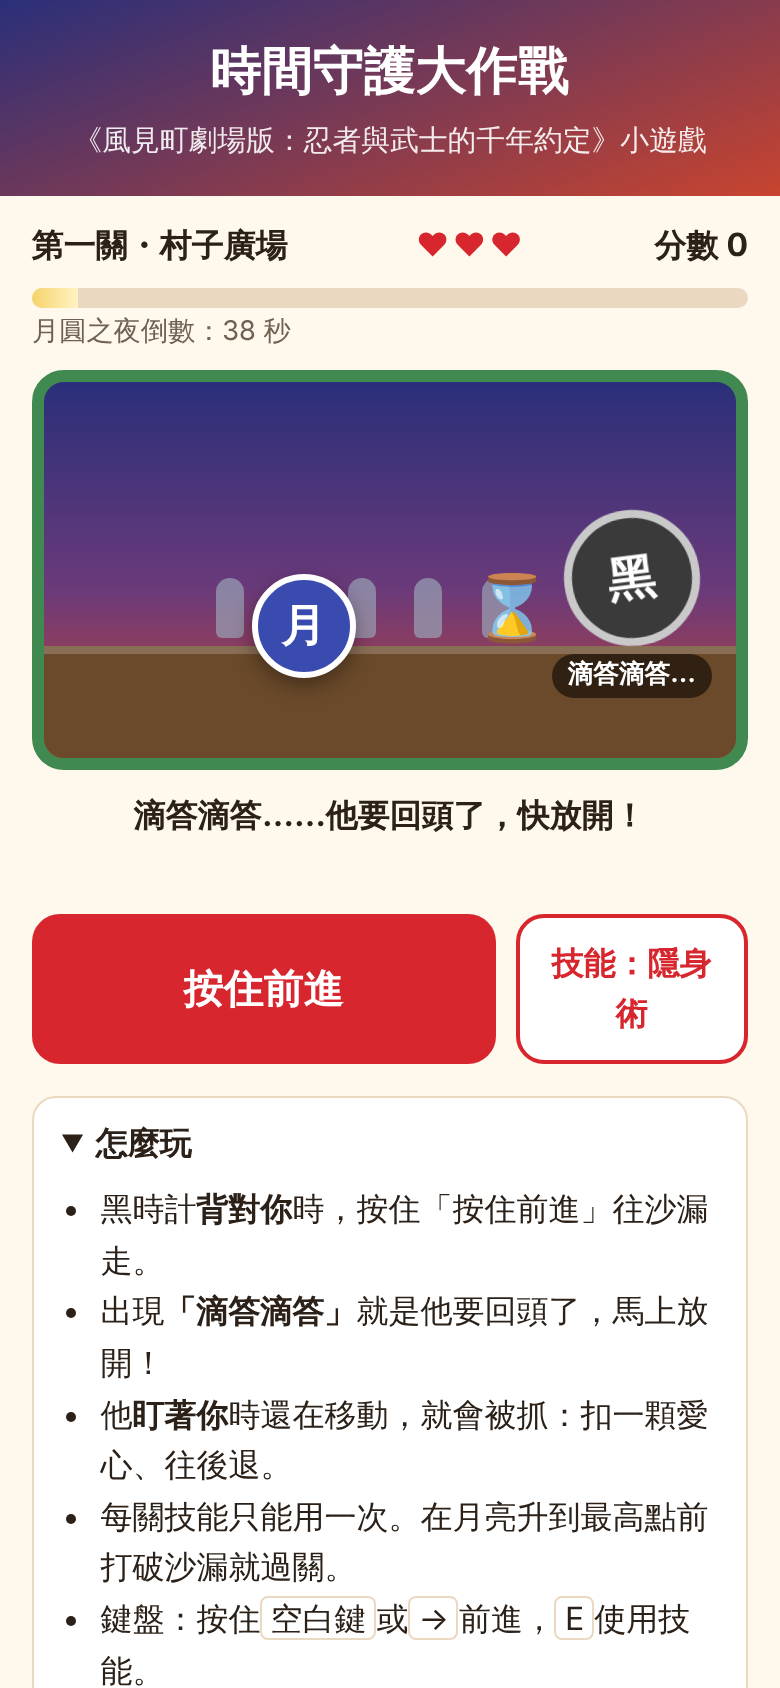
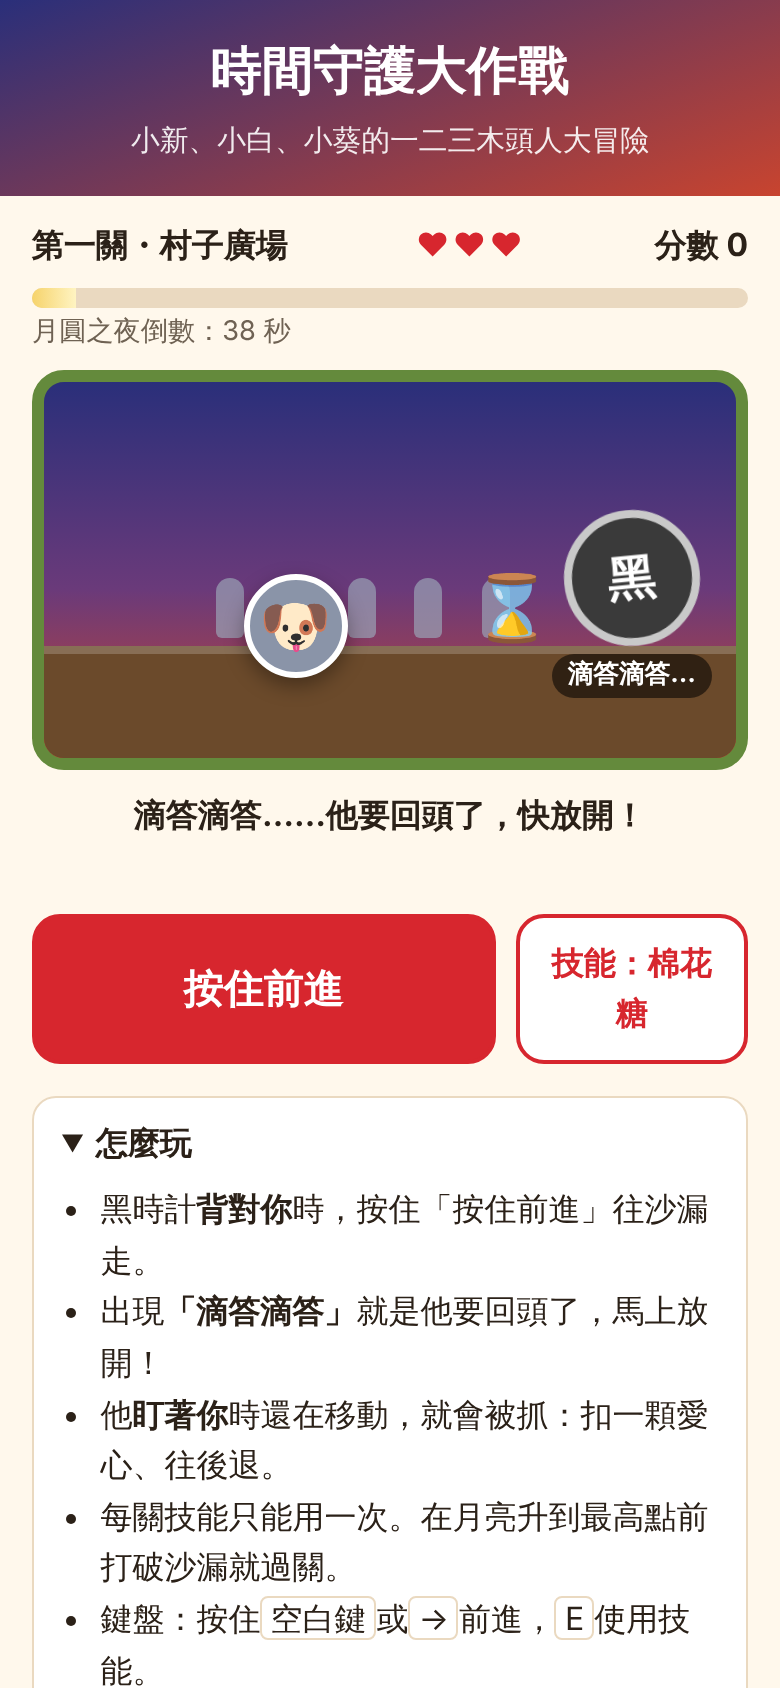
Change mini game heroes to Shin-chan, Shiro, and Himawari
Claude-Session: https://claude.ai/code/session_01V1fCCzd9ap75BGBZdNuM5J

diff --git a/game/game.js b/game/game.js
@@ -1,28 +1,27 @@
-// 時間守護大作戰：以原創劇場版《風見町劇場版》為題材的「一二三木頭人」小遊戲
+// 時間守護大作戰：「一二三木頭人」小遊戲，角色為小新、小白、小葵
 (function () {
   "use strict";
 
-  var movie = window.MY_MOVIE || { characters: [] };
-  function colorOf(name, fallback) {
-    var found = (movie.characters || []).filter(function (c) { return c.name === name; })[0];
-    return found ? found.color : fallback;
-  }
-
+  // 可選角色：圖示用 emoji，不使用任何官方圖片
   var HEROES = [
     {
-      name: "小風", color: colorOf("小風", "#e8473d"), speed: 1.0, lives: 3,
-      skill: "手電筒", effect: "blind",
-      desc: "速度普通。技能「手電筒」：照得黑時計睜不開眼，3 秒內不會回頭。",
+      name: "小新", icon: "👦", color: "#e8473d", speed: 1.0, lives: 3,
+      skill: "屁屁舞", effect: "blind",
+      desc: "速度普通。技能「屁屁舞」：黑時計笑到停不下來，3 秒內不會回頭。",
+      skillMsg: "小新跳起屁屁舞！黑時計笑到停不下來，3 秒內快衝！",
     },
     {
-      name: "月影", color: colorOf("月影", "#3a4bb0"), speed: 1.25, lives: 3,
-      skill: "隱身術", effect: "hide",
-      desc: "跑最快。技能「隱身術」：2.5 秒內被看到也不會被抓（這次忍住不打噴嚏！）。",
+      name: "小白", icon: "🐶", color: "#8a94a8", speed: 1.25, lives: 3,
+      skill: "棉花糖", effect: "hide",
+      desc: "跑最快。技能「棉花糖」：縮成一團棉花糖，2.5 秒內被看到也不會被抓。",
+      skillMsg: "小白縮成棉花糖！2.5 秒內被看到也沒關係！",
     },
     {
-      name: "鐵之介", color: colorOf("鐵之介", "#b0611a"), speed: 0.9, lives: 4,
-      skill: "刀背守護", effect: "shield",
-      desc: "比較慢但多一顆愛心。技能「刀背守護」：擋下下一次被抓。",
+      name: "小葵", icon: "👶", color: "#e86a9b", speed: 0.9, lives: 4,
+      skill: "閃亮亮眼神", effect: "shield",
+      desc: "爬得比較慢但多一顆愛心。技能「閃亮亮眼神」：擋下下一次被抓。",
+      skillMsg: "小葵閃亮亮眼神發動！下一次被抓會被擋下來。",
+      blockMsg: "小葵的閃亮亮眼神讓黑時計心軟了！先放開，等他轉回去。",
     },
   ];
 
@@ -103,12 +102,12 @@
 
   function showTitle() {
     s.screen = "title";
-    openPanel("選擇你的角色", movie.tagline || "在月圓之夜前，奪回被偷走的時間！", function (body) {
+    openPanel("選擇你的角色", "在月圓之夜前，奪回被黑時計偷走的時間！", function (body) {
       var list = el("div", "hero-list");
       HEROES.forEach(function (h) {
         var btn = el("button", "hero-card");
         btn.type = "button";
-        var av = el("span", "hero-avatar", h.name.charAt(0));
+        var av = el("span", "hero-avatar", h.icon);
         av.style.background = h.color;
         btn.appendChild(av);
         var info = el("span", "hero-info");
@@ -128,7 +127,8 @@
     s.score = 0;
     s.level = 0;
     ui.player.style.background = hero.color;
-    ui.initial.textContent = hero.name.charAt(0);
+    ui.initial.textContent = hero.icon;
+    ui.player.setAttribute("aria-label", hero.name);
     startLevel();
   }
 
@@ -192,7 +192,7 @@
 
   function lose(reason) {
     s.screen = "end";
-    endPanel("被凍結了……", reason + " 別灰心，月影也是第 13 次才成功的！");
+    endPanel("被凍結了……", reason + " 別灰心，再試一次就好！");
   }
 
   // ---------- 遊戲邏輯 ----------
@@ -220,13 +220,13 @@
     if (e === "blind") {
       s.blindT = 3;
       setGuard("back", 3);
-      say("手電筒一照！黑時計睜不開眼，3 秒內快衝！", 3);
+      say(s.hero.skillMsg, 3);
     } else if (e === "hide") {
       s.hideT = 2.5;
-      say("隱身術成功！2.5 秒內被看到也沒關係！", 2.5);
+      say(s.hero.skillMsg, 2.5);
     } else {
       s.shield = true;
-      say("刀背守護！下一次被抓會被擋下來。", 1.5);
+      say(s.hero.skillMsg, 1.5);
     }
   }
 
@@ -235,7 +235,7 @@
     if (s.shield) {
       s.shield = false;
       s.stunT = 0.6;
-      say("鏘！鐵之介用刀背擋下了！先放開，等他轉回去。", 1.5);
+      say(s.hero.blockMsg, 1.5);
       return;
     }
     s.lives -= 1;

diff --git a/game/index.html b/game/index.html
@@ -9,7 +9,7 @@
 <body>
   <header class="top">
     <h1>時間守護大作戰</h1>
-    <p>《風見町劇場版：忍者與武士的千年約定》小遊戲</p>
+    <p>小新、小白、小葵的一二三木頭人大冒險</p>
   </header>
 
   <main class="wrap">
@@ -27,7 +27,7 @@
       <div class="frozen" aria-hidden="true">
         <span></span><span></span><span></span><span></span><span></span>
       </div>
-      <div class="player" id="player"><span id="player-initial">小</span></div>
+      <div class="player" id="player"><span id="player-initial">👦</span></div>
       <div class="goal" aria-hidden="true">⌛</div>
       <div class="guard" id="guard">
         <span class="guard-face" id="guard-face">黑</span>
@@ -67,7 +67,6 @@
     </div>
   </div>
 
-  <script src="../my-movie/movie.js"></script>
   <script src="game.js"></script>
 </body>
 </html>

diff --git a/game/style.css b/game/style.css
@@ -101,7 +101,7 @@ body {
   border: 3px solid #fff;
   color: #fff;
   font-weight: 700;
-  font-size: 1.4rem;
+  font-size: 1.8rem;
   display: grid;
   place-items: center;
   box-shadow: 0 4px 10px rgba(0, 0, 0, 0.35);
@@ -231,7 +231,7 @@ kbd { border: 1px solid var(--border); border-radius: 4px; padding: 0 4px; font-
   border-radius: 50%;
   color: #fff;
   font-weight: 700;
-  font-size: 1.3rem;
+  font-size: 1.7rem;
   display: grid;
   place-items: center;
 }

diff --git a/game/README.md b/game/README.md
@@ -1,13 +1,13 @@
 # 時間守護大作戰
 
-以原創劇場版《風見町劇場版：忍者與武士的千年約定》為題材的「一二三木頭人」小遊戲。純靜態網頁，不需要建置；角色名稱與顏色讀取自 `../my-movie/movie.js`。
+「一二三木頭人」小遊戲，可選角色為小新、小白、小葵。純靜態網頁，不需要建置。角色圖示使用 emoji，不使用任何官方圖片。
 
 ## 玩法
 
 - 選擇角色：
-  - 小風：速度普通，技能「手電筒」讓黑時計 3 秒內不回頭。
-  - 月影：速度最快，技能「隱身術」讓你 2.5 秒內被看到也不會被抓。
-  - 鐵之介：速度較慢、多一顆愛心，技能「刀背守護」擋下一次被抓。
+  - 👦 小新：速度普通，技能「屁屁舞」讓黑時計笑到 3 秒內不回頭。
+  - 🐶 小白：速度最快，技能「棉花糖」縮成一團，2.5 秒內被看到也不會被抓。
+  - 👶 小葵：爬得較慢、多一顆愛心，技能「閃亮亮眼神」擋下一次被抓。
 - 黑時計背對你時按住「按住前進」；出現「滴答滴答」就要放開；被他盯著時還在動就會被抓（扣一顆愛心並後退）。
 - 共三關：村子廣場、竹林小路、時計城。越後面回頭越快，第二、三關還有假動作。
 - 在月亮升到最高點（時間限制）前抵達沙漏就過關。分數＝剩餘秒數 × 10 ＋ 愛心 × 50，最高分存在本機瀏覽器。
